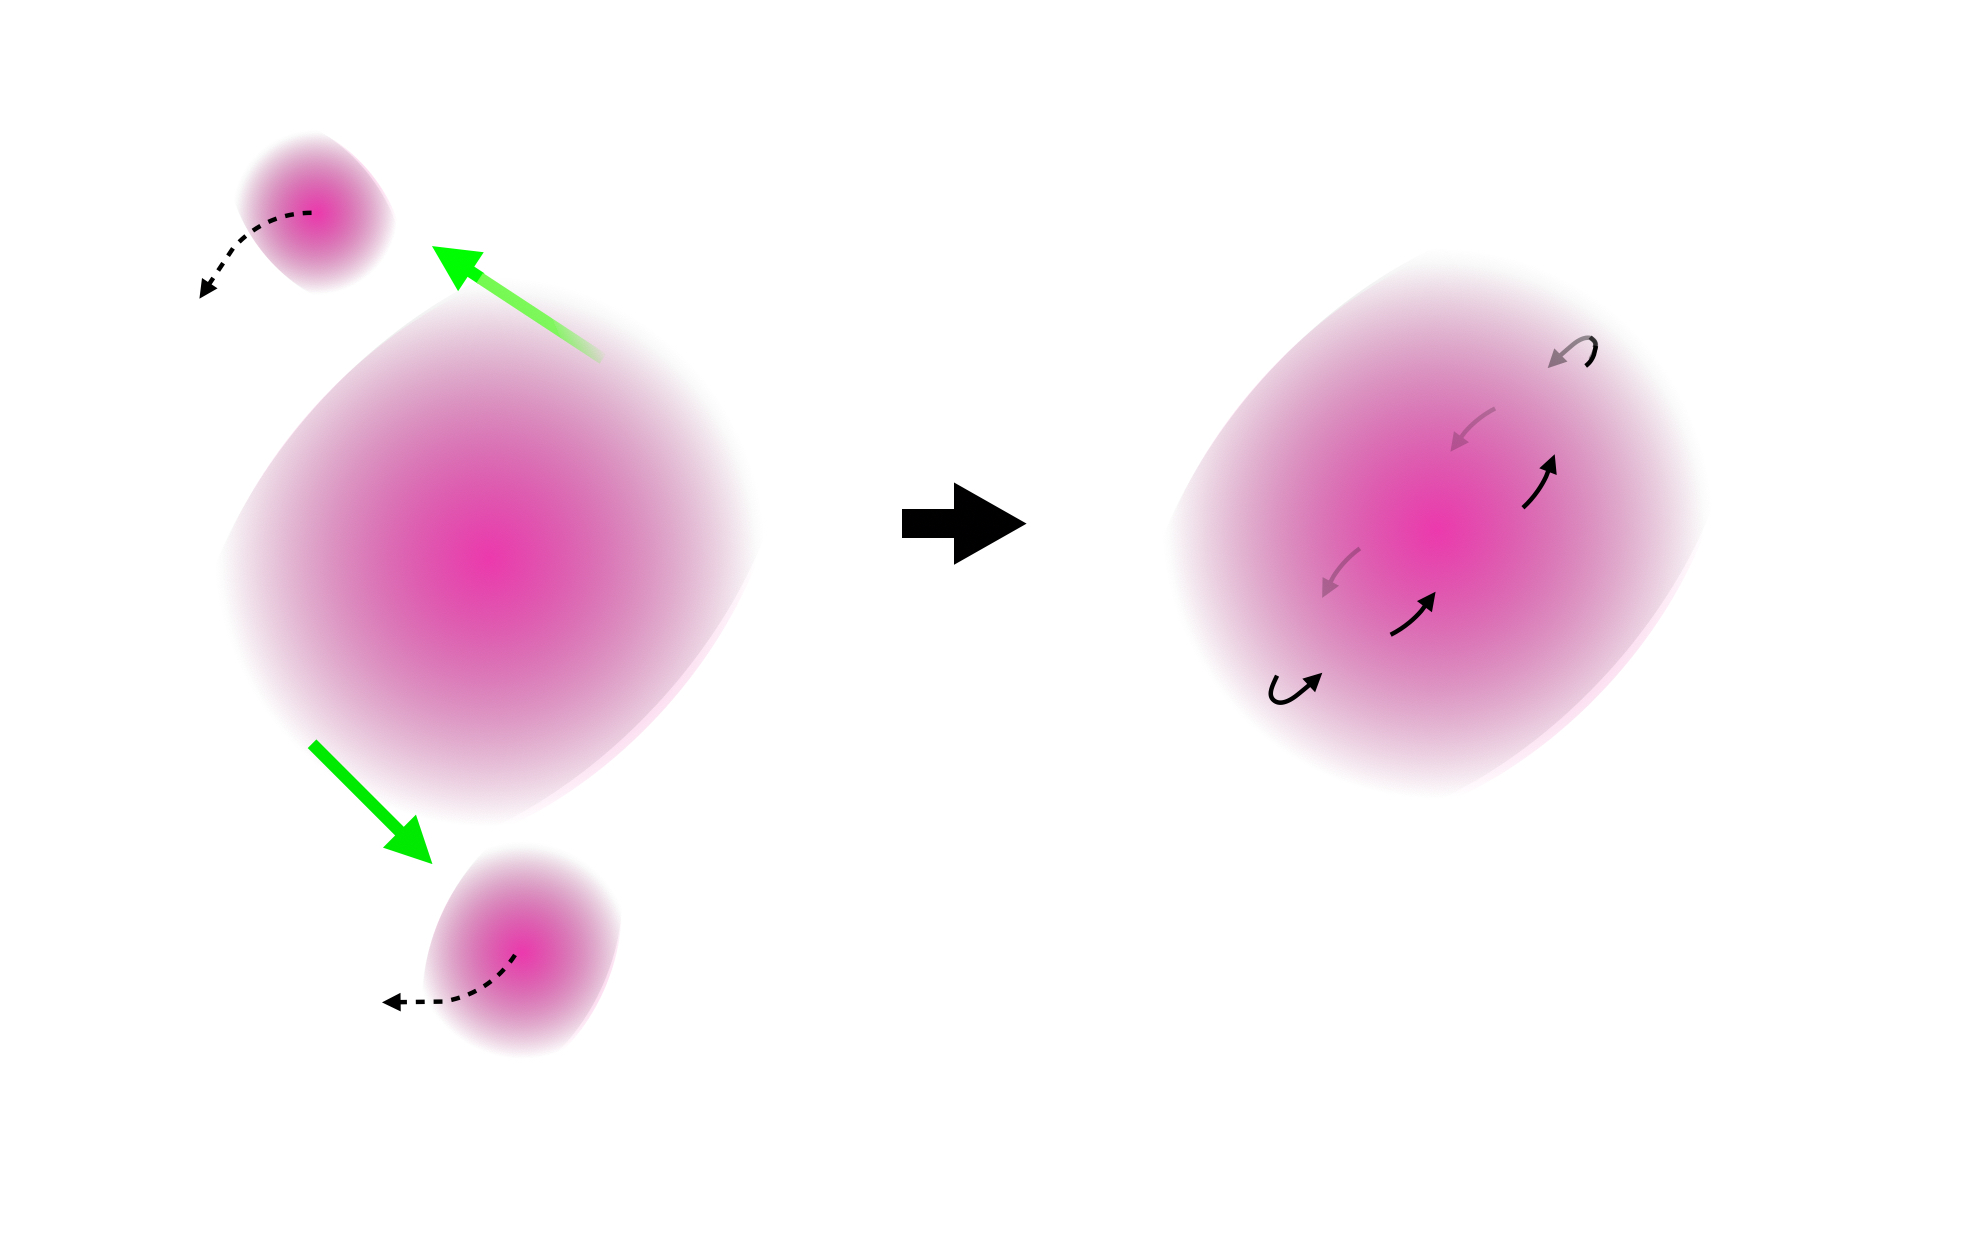
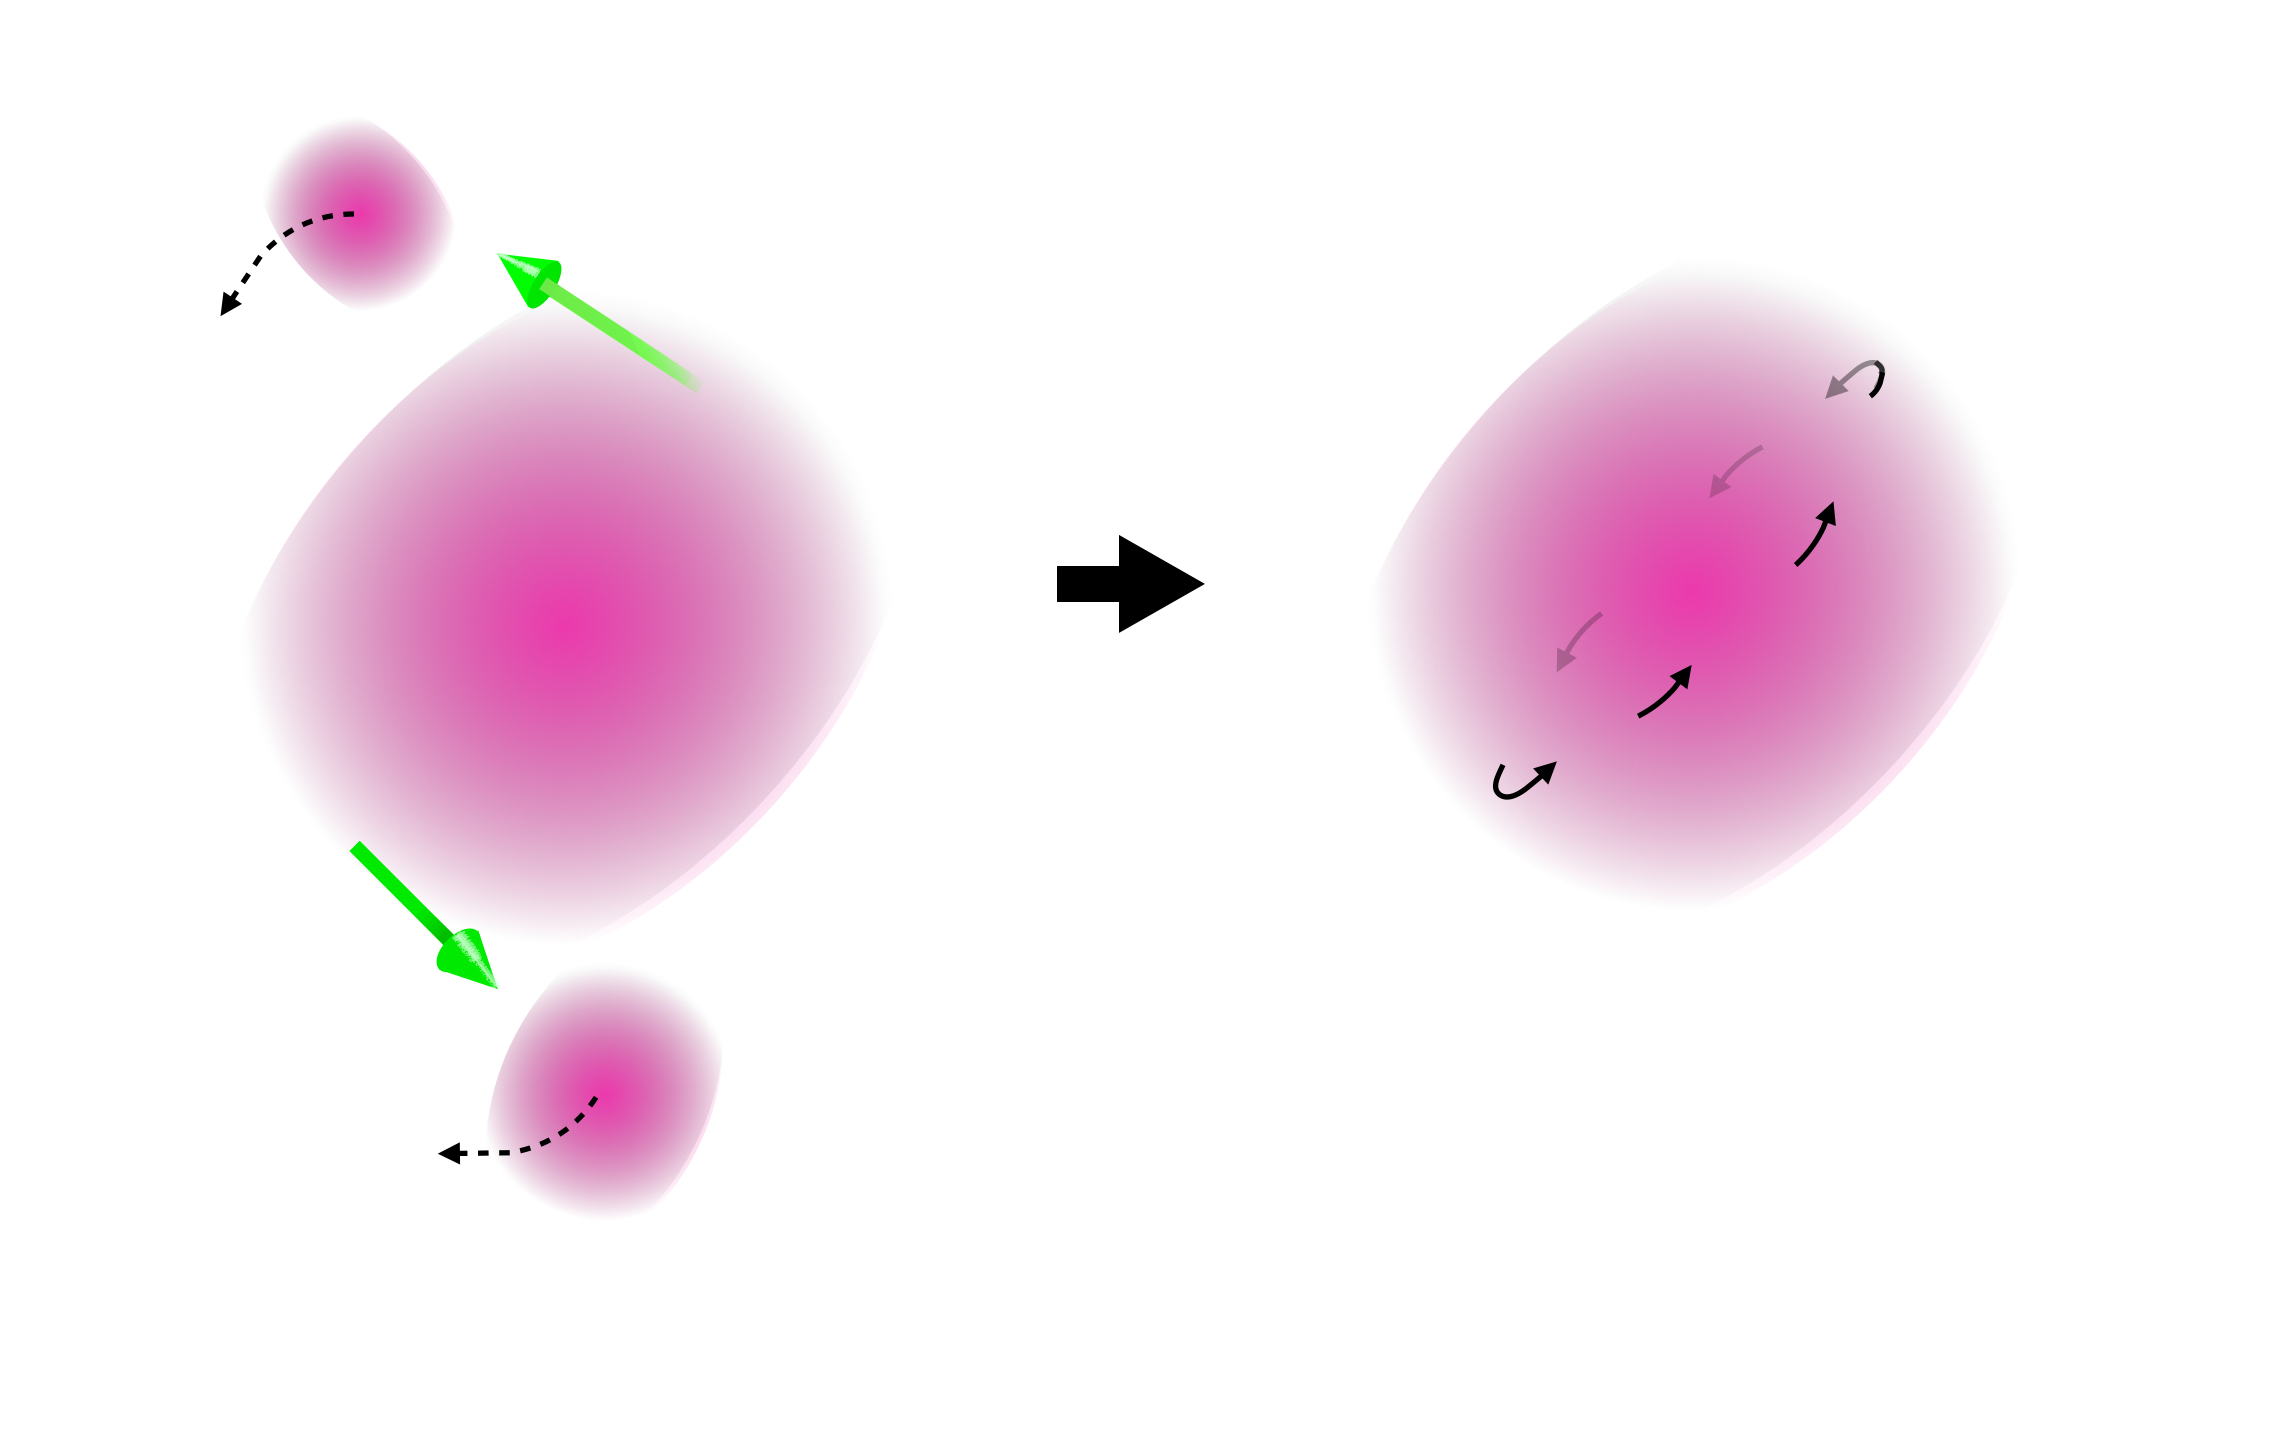
galaksedannelse

diff --git a/encyclo/galaksedannelse.html b/encyclo/galaksedannelse.html
@@ -241,6 +241,10 @@
                                         I Universets ungdom lå gassen næsten fuldstændig jævnt fordelt. Men ikke helt! Ganske små ujævnheder gjorde, at der nogle steder var lidt mere tyngdekraft end andre.
                                         </p>
                                         <p>
+                                        Disse små ujævnheder kan faktisk observeres i det allertidligste lys som vi kan se — den <a href="./kosmisk_mikrobolgebaggrundsstraaling.html">kosmiske mikrobølgebaggrundsstråling</a>.
+                                        Da dette lys blev udsendt, var de tætte områder omtrent en hundredetusindedel tættere end de tynde.
+                                        </p>
+                                        <p>
                                         Ved at tiltrække mere stof begyndte klumperne begyndte at vokse sig større. Men i starten var Universets udvidelse rasende høj, og et kapløb mellem ekspansion og kollaps begyndte.
                                         </p>
                                         <p>
@@ -346,13 +350,17 @@
                                         <div>
                                             <div class="ol-hover hover-2"><img src="../pics/encyclo/cooling_icon.jpg" alt="image hover"/>
                                                 <div class="icons">
-                                                    <a href="../pics/encyclo/cooling.jpg" class="ol-lightbox"><i class="oli oli-search theme-color" style="color:var(--lilla); border-color:var(--lilla); background-color:var(--gul)"></i></a>
+                                                    <a href="../pics/encyclo/cooling.png" class="ol-lightbox"><i class="oli oli-search theme-color" style="color:var(--lilla); border-color:var(--lilla); background-color:var(--gul)"></i></a>
                                                 </div>
                                             </div>
                                             <div>
                                                 <font size=-2>
                                                     <strong>Køling</strong>: 
-                                                    wallah wallah wallah
+                                                    Varm gas betyder hurtige partikler.
+                                                    <em>Venstre</em>: Et hurtigt atom og en hurtig elektron støder sammen.
+                                                    <em>Midten</em>:  En del af deres bevægelsesenergi går til at "excitere" en elektron i atomet.
+                                                    Derfor forlader partiklerne gerningsstedet med lavere hastighed, og har dermed kølet.
+                                                    <em>Højre</em>: Kort efter de-exciterer elektronen spontant, og den overskydende energi forlader atomet som en foton, der kan slippe væk.
                                                 </font>
                                             </div>
                                         </div>
@@ -412,7 +420,7 @@
                                             </div>
                                             <div>
                                                 <font size=-2>
-                                                    <strong>Rotationens oprindelse</strong>:
+                                                    <strong>Rotationens oprindelse</strong>: Såkaldte "tidevandskræfter" fra nabohaloer trækker i haloen.
                                                 </font>
                                             </div>
                                         </div>
@@ -425,6 +433,7 @@
                                             <div>
                                                 <font size=-2>
                                                     <strong>Dannelsen af en galakses gasskive</strong>:
+                                                    Efterhånden som gassen køler og kollapser roterer den hurtigere, og centrifugalkraften sørger for at gassen danner en skive af gas.
                                                 </font>
                                             </div>
                                         </div>
@@ -476,7 +485,10 @@
                                             </div>
                                             <div>
                                                 <font size=-2>
-                                                    <strong>Spiralarmene</strong>:
+                                                    <strong>Spiralarme</strong>: Spiralarmene er ikke "faste" objekter, men midlertidige mønstre af let forøget tæthed i galaksens skive.
+                                                    Når en gassky overhaler (eller overhales af) tæthedsbølgen, sammenpresses den lidt pga. det højere tryk, hvilket får skyen til at fragmentere, kollapse og danne stjerner.
+                                                    De tungeste, og dermed blåhvide og lysstærke, af disse stjerner giver armen dens farve, men dør hurtigt.
+                                                    De lettere, og dermed rødorange og lyssvage, forlader armen, og ses ikke så tydeligt mellem armene.
                                                 </font>
                                             </div>
                                         </div>
@@ -502,7 +514,16 @@
                                         Men hvis to spiralgalakser er nogenlunde lige store, er det ikke sikkert at slutresultatet bliver til en skive igen.
                                         </p>
                                         <p>
-                                        Man mener at elliptiske galakser er resultatet af flere sammenstød af mindre galakser, primært i det tidlige Univers.
+                                        I et såkaldt "starburst" opbruges næsten al gassen, enten til at danne stjerner, eller også ved at blive blæst ud af galaksen af stjernevinde.
+                                        Derfor danner elliptiske galakser stort set ikke nye stjerner, og derfor er kun de langlivede, lette, og dermed rødorange tilbage, hvilket giver disse galakser deres farve.
+                                        </p>
+                                        <p>
+                                        Dette er én måde at danne elliptiske galakser på. En anden er i det tidlige Univers, som et resultat af flere sammenstød af mindre proto-galakser.
+                                        Hvis stjernedannelsen i en protogalakse sker hurtigt, udtømmes den simpelthen for gas inden de når at danne en skive.
+                                        Dermed når den ikke at "klappe sammen" til en skive, og stjernerne beholder deres oprindelige, tilfældige baner.
+                                        </p>
+                                        <p>
+                                        Når milliarder af stjerner har tilfældige baner, er resultatet end mere sfærisk fordeling end spiralgalaksernes skive.
                                         </p>
                                     </div>
                                     <div class="col-md-5">
@@ -514,7 +535,12 @@
                                             </div>
                                             <div>
                                                 <font size=-2>
-                                                    <strong>Galaksedannelse</strong>: wallah wallah wallah
+                                                    <strong>Elliptisk galaksedannelse</strong>: Flere små proto-galakser støder sammen og danner stjerner hurtigt, i et "starburst".
+                                                    Derved tømmes galaksen for gas til at danne nye stjerner.
+                                                    Hvis processen sker hurtigt nok, når galaksen ikke at danne en gasskive før det er for sent, og stjernerne bibeholder deres oprindelige, tilfældige baner.
+                                                    Dette giver de elliptiske galakser deres form.
+                                                    De kortlivede, blåhvide stjerner forsvinder efter nogle millioner år, mens de langlivede, rødorange stjerner hænger ud i milliarder af år.
+                                                    Dette giver galakserne deres farve.
                                                 </font>
                                             </div>
                                         </div>
